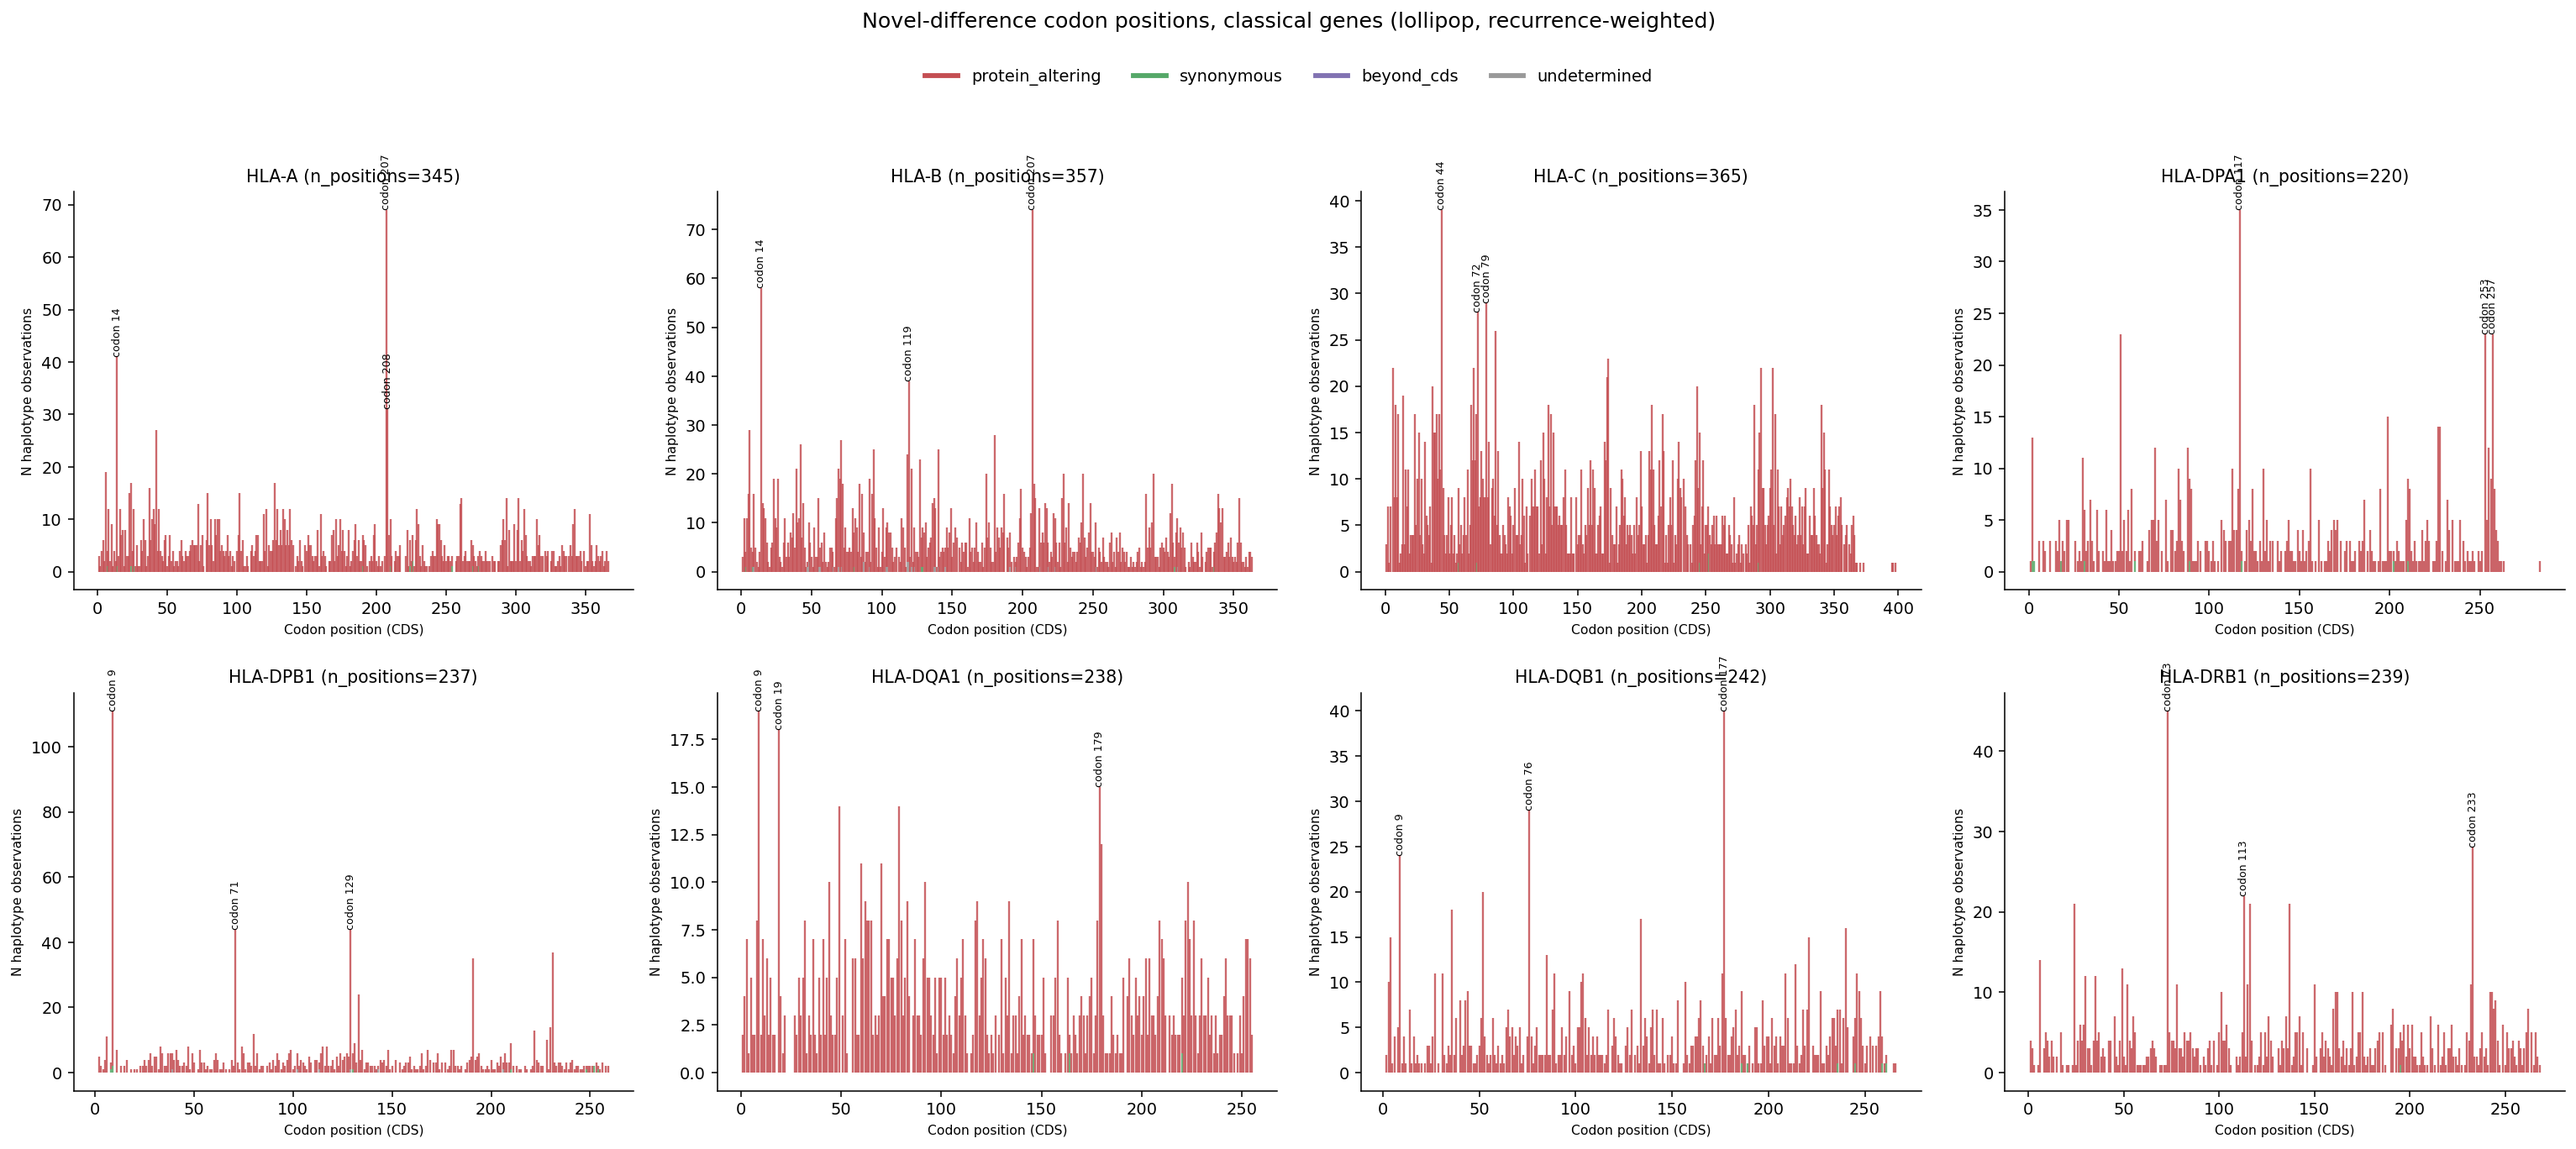
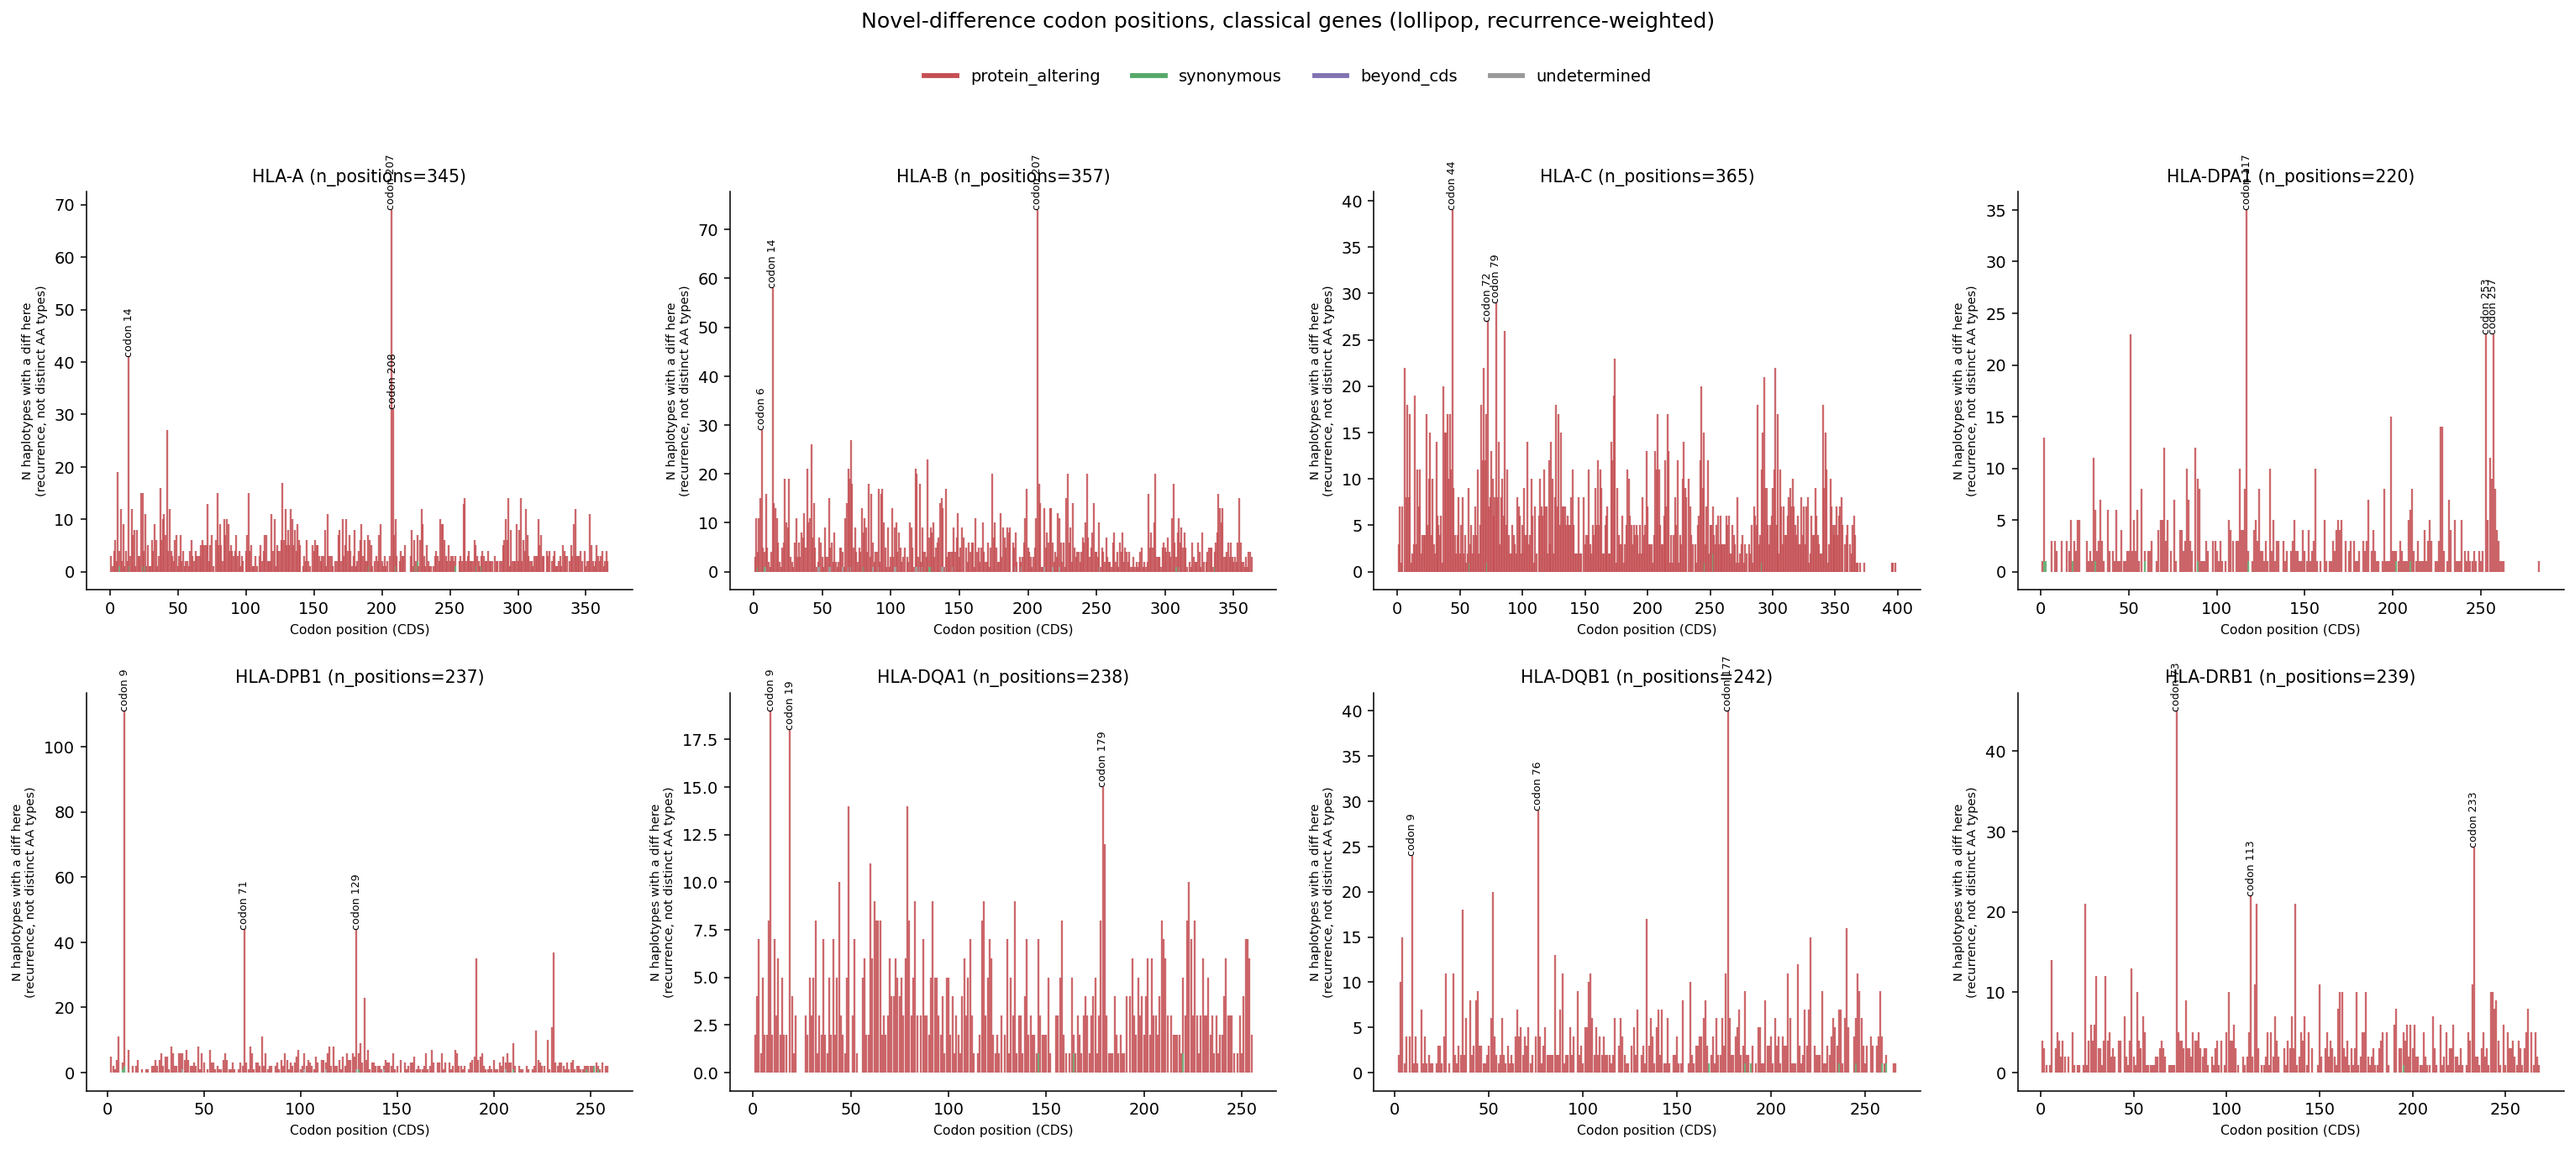
Locked-mapping embedding matrix + reverted mutation-topology coloring, real cohort

diff --git a/reports/hla_popgen/08_embedding_compare/lr/08_embedding_compare_report.md b/reports/hla_popgen/08_embedding_compare/lr/08_embedding_compare_report.md
@@ -1,46 +1,32 @@
-# Embedding comparison: allele-space resolution vs population structure (`08_embedding_compare.py`)
+# Embedding comparison: locked-mapping allele-space views (`08_embedding_compare.py`)
 
-See this script's module docstring for why `lr_collapsed`/`sr_collapsed` are separately-fit embeddings (not projections of `lr_full`) while `lr_known_only` IS the same fitted `lr_full` coordinates, subset.
-
-
-## lr_full
-Complete 8-classical-gene cases: 9355 (2877 incomplete, dropped). Novel carriers: 8893 (95.1%).
-
-Figure: `/home/jupyter/repos/pilot-validation/reports/hla_popgen/08_embedding_compare/lr/pca_lr_full.png`
-
-Figure: `/home/jupyter/repos/pilot-validation/reports/hla_popgen/08_embedding_compare/lr/umap_lr_full.png`
+3 columns (full_enriched, collapsed_nearest_ref, known_only) x 4 rows (raw/PCA-denoised UMAP x ancestry/%novel-gradient coloring) -- see module docstring for why `collapsed_nearest_ref` is a genuine `.transform()` projection into the `full_enriched` fit, not a second fit. Full 12-panel grid + individual panels: `matrix/`.
 
 
-## lr_known_only (same lr_full coordinates, subset)
-462 of 9355 people carry zero novel calls across these 8 genes -- plotted as the SAME PCA/UMAP points as lr_full above, filtered, never a re-fit.
+## Cohort
+9355 complete 8-classical-gene cases (2877 incomplete, dropped). 8893 (95.1%) carry >=1 novel allele.
 
-Figure: `/home/jupyter/repos/pilot-validation/reports/hla_popgen/08_embedding_compare/lr/pca_lr_known_only_highlight.png`
+`collapsed_nearest_ref` slot resolution: 138661 of 149680 slots (7.4% dropped) had a `nearest_allele` that IS a column in the locked fit and could be placed; the rest had nowhere to project (a nearest reference nobody in this cohort's own known calls happens to carry) and are left at 0 for that slot.
 
-
-## lr_collapsed
-Complete 2-field cases among lr_full's 9355 people: 7059 (2296 incomplete under 2-field truncation). This drop is EXPECTED to be substantial, not a bug: a `protein_altering` novel call (depth-2 novelty, reference/IMMUANNOT_GTF_SPEC.md part B) only has its FIRST field resolved before 'new' is spliced in -- `to_nfield(consensus, 2)` needs 2 resolved fields and returns None for it. Since protein-altering is the dominant novelty class (~91% of real novel calls, 03_novel_alleles.py's report), 2-field collapsing doesn't just blur these calls into a coarser bucket -- it makes the PERSON'S ENTIRE 8-gene case incomplete and drops them from this embedding outright. That is itself a quantitative answer to 'how much does collapsing cost': compare this count directly against lr_full's zero incomplete cases.
-
-Figure: `/home/jupyter/repos/pilot-validation/reports/hla_popgen/08_embedding_compare/lr/pca_lr_collapsed.png`
-
-Figure: `/home/jupyter/repos/pilot-validation/reports/hla_popgen/08_embedding_compare/lr/umap_lr_collapsed.png`
+`known_only`: 462 of 9355 people (whole-person drop, per 2026-09 chat clarification).
 
 
-## sr_collapsed
-Of 7044 people shared between lr and sr: 7044 have a complete 2-field SR case (0 incomplete/no-call, dropped).
-
-Figure: `/home/jupyter/repos/pilot-validation/reports/hla_popgen/08_embedding_compare/lr/pca_sr_collapsed.png`
+PCA on `full_enriched`: PC1 0.16% var, PC2 0.16% var (10 components retained for the record; the PCA-denoised UMAP row uses the top 15).
 
 
-## Collapse-radius comparison: LR-collapsed vs SR-collapsed, SAME 7044 people, both at 2-field resolution
-Hypothesis (2026-09 chat discussion): SR, having less intrinsic resolution/confidence, calls concentrate more heavily on a few common alleles than LR does even at the SAME nominal 2-field resolution. `top10_share` = fraction of all allele copies covered by the 10 most common alleles for that gene; `simpson_concentration` = sum(p_i^2) (higher = more concentrated on few alleles).
+Figure (combined grid): `/home/jupyter/repos/pilot-validation/reports/hla_popgen/08_embedding_compare/lr/matrix/embedding_matrix.png`
+
+
+## Collapse-radius: LR-2field vs SR-2field, SAME 6668 people
+Does SR concentrate on fewer, more common alleles than LR at the SAME matched 2-field resolution? `top10_share` = fraction of allele copies in the 10 most common alleles per gene; `simpson_concentration` = sum(p_i^2).
 
 | gene | LR top10 share | SR top10 share | LR Simpson | SR Simpson | LR n_distinct | SR n_distinct |
 |---|---|---|---|---|---|---|
-| A | 67.1% | 68.0% | 0.064 | 0.065 | 131 | 93 |
-| B | 42.0% | 42.1% | 0.027 | 0.027 | 198 | 180 |
-| C | 68.2% | 71.5% | 0.064 | 0.071 | 108 | 75 |
-| DPA1 | 99.4% | 99.9% | 0.436 | 0.439 | 35 | 18 |
-| DPB1 | 84.1% | 90.2% | 0.122 | 0.135 | 98 | 58 |
-| DQA1 | 90.2% | 99.9% | 0.099 | 0.158 | 37 | 19 |
-| DQB1 | 84.5% | 91.4% | 0.091 | 0.119 | 58 | 35 |
-| DRB1 | 54.0% | 54.1% | 0.042 | 0.043 | 109 | 89 |
+| A | 67.1% | 68.0% | 0.065 | 0.066 | 130 | 93 |
+| B | 42.1% | 42.2% | 0.027 | 0.027 | 196 | 179 |
+| C | 68.2% | 71.5% | 0.065 | 0.071 | 107 | 74 |
+| DPA1 | 99.4% | 99.9% | 0.438 | 0.440 | 35 | 18 |
+| DPB1 | 84.1% | 90.3% | 0.123 | 0.135 | 98 | 58 |
+| DQA1 | 90.2% | 99.9% | 0.099 | 0.158 | 36 | 18 |
+| DQB1 | 84.6% | 91.5% | 0.091 | 0.119 | 57 | 35 |
+| DRB1 | 54.1% | 54.2% | 0.042 | 0.043 | 108 | 88 |

diff --git a/reports/hla_popgen/09_mutation_topology/lr/09_mutation_topology_report.md b/reports/hla_popgen/09_mutation_topology/lr/09_mutation_topology_report.md
@@ -1,6 +1,10 @@
 # Mutation topology: where novel differences land along the CDS (`09_mutation_topology.py`)
 
-Methodology: scripts/hla_popgen/research/VIZ_LIT.md addendum (2026-09). Each stem = one codon position; height = number of haplotype-level novel-difference observations at that position (recurrence-weighted, not a per-cluster count -- see module docstring). Position comes from `cds_mut`'s aa-diff field, first tied candidate only.
+Methodology: scripts/hla_popgen/research/VIZ_LIT.md addendum (2026-09). Each stem = one codon position; height = number of haplotype-level novel-difference OBSERVATIONS at that position -- a recurrence count across the cohort, NOT the number of distinct amino-acid substitution types (capped near 19-20 by definition; recurrence is not, since many different haplotypes can independently carry the same substitution). Color is the call's own `novelty_class` (protein_altering/synonymous/beyond_cds/undetermined) -- a true per-codon synonymous call was attempted and reverted after a real-data regression; see module docstring for exactly why (short version: real `cds_mut` amino-acid labels are multi-letter and occasionally-garbled, entries can be indel-consolidated across several residues, and some entries have no diff pair at all -- none of which the synthetic test fixture modeled).
+
+
+## Why the plot is mostly protein_altering (red)
+This is the real class balance, not a labeling bug: of resolved novel clusters cohort-wide (03_novel_alleles.py's report), 90.8% are `protein_altering`, 3.2% `synonymous`, 6.1% `beyond_cds`. A thin green sliver here is the correct picture, not evidence something is hidden.
 
 
 ## Top-5 hottest codons per gene
@@ -14,12 +18,12 @@ Methodology: scripts/hla_popgen/research/VIZ_LIT.md addendum (2026-09). Each ste
 | HLA-A | 6 | 19 | protein_altering |
 | HLA-B | 207 | 74 | protein_altering |
 | HLA-B | 14 | 58 | protein_altering |
-| HLA-B | 119 | 39 | protein_altering |
 | HLA-B | 6 | 29 | protein_altering |
-| HLA-B | 180 | 28 | protein_altering |
+| HLA-B | 71 | 27 | protein_altering |
+| HLA-B | 42 | 26 | protein_altering |
 | HLA-C | 44 | 39 | protein_altering |
 | HLA-C | 79 | 29 | protein_altering |
-| HLA-C | 72 | 28 | protein_altering |
+| HLA-C | 72 | 27 | protein_altering |
 | HLA-C | 86 | 26 | protein_altering |
 | HLA-C | 174 | 23 | protein_altering |
 | HLA-DPA1 | 117 | 35 | protein_altering |
